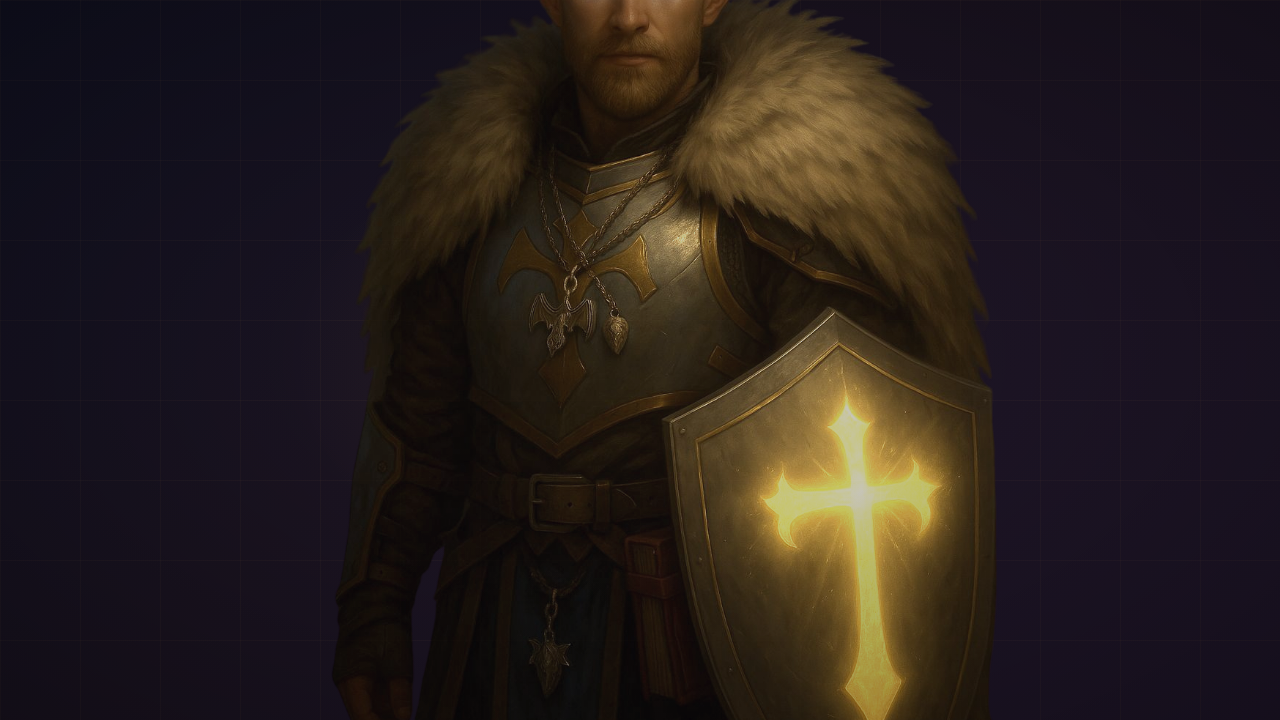
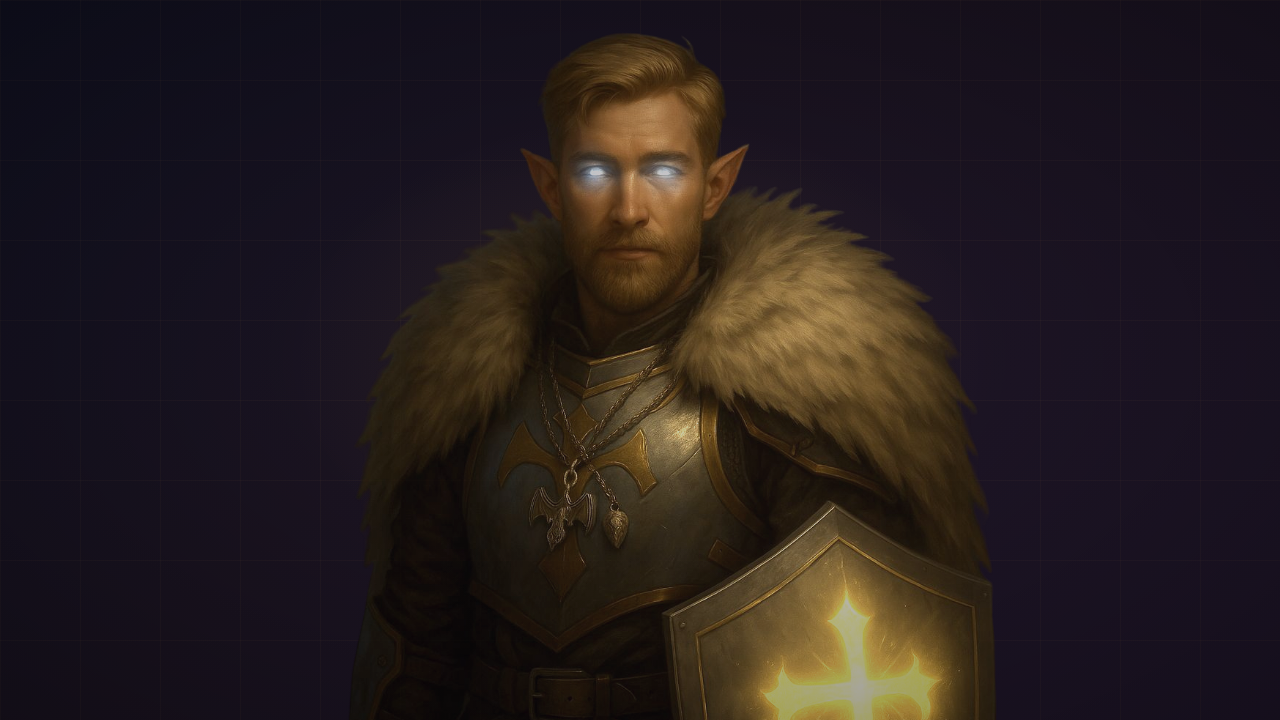
fix(blog): barsavi descido no frame — rosto + escudo centralizados

Changed region(s): [[0.3125, 0.0, 0.7812, 1.0]]

diff --git a/docs/social-media/arts/blog-hero-visual.html b/docs/social-media/arts/blog-hero-visual.html
@@ -214,7 +214,7 @@
   <div class="hero-bg" style="background: linear-gradient(135deg, #111122 0%, #1a1320 40%, #1e1528 100%);"></div>
   <div class="hero-grid"></div>
   <div class="hero-glow" style="left: 55%;"></div>
-  <img class="hero-art" src="../arts/assets/capa-barsavi-portrait.png" alt="" style="width: 750px; height: 1000px; opacity: 0.75; filter: saturate(0.9) brightness(1.25); object-position: center 35%;">
+  <img class="hero-art" src="../arts/assets/capa-barsavi-portrait.png" alt="" style="width: 750px; height: 1000px; opacity: 0.75; filter: saturate(0.9) brightness(1.25); object-position: top center; transform: translate(-50%, -35%);">
   <div class="hero-vignette"></div>
 </div>
 
@@ -224,7 +224,7 @@
   <div class="hero-bg" style="background: linear-gradient(135deg, #111122 0%, #1a1320 40%, #1e1528 100%);"></div>
   <div class="hero-grid"></div>
   <div class="hero-glow" style="left: 50%;"></div>
-  <img class="hero-art" src="../arts/assets/capa-barsavi-portrait.png" alt="" style="width: 750px; height: 1000px; opacity: 0.75; filter: saturate(0.9) brightness(1.25); object-position: center 35%;">
+  <img class="hero-art" src="../arts/assets/capa-barsavi-portrait.png" alt="" style="width: 750px; height: 1000px; opacity: 0.75; filter: saturate(0.9) brightness(1.25); object-position: top center; transform: translate(-50%, -35%);">
   <div class="hero-vignette"></div>
 </div>
 
